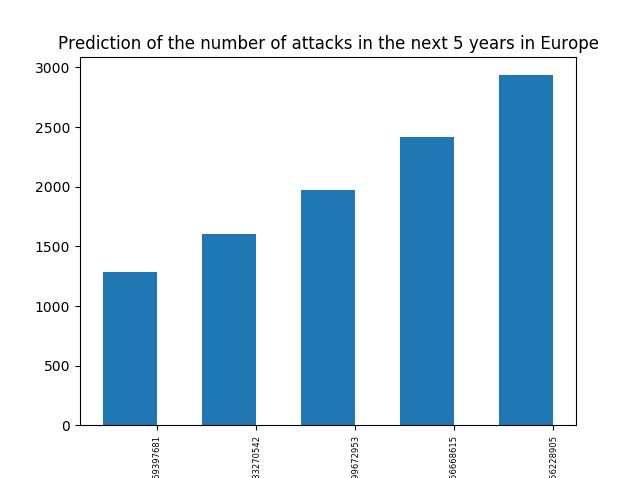
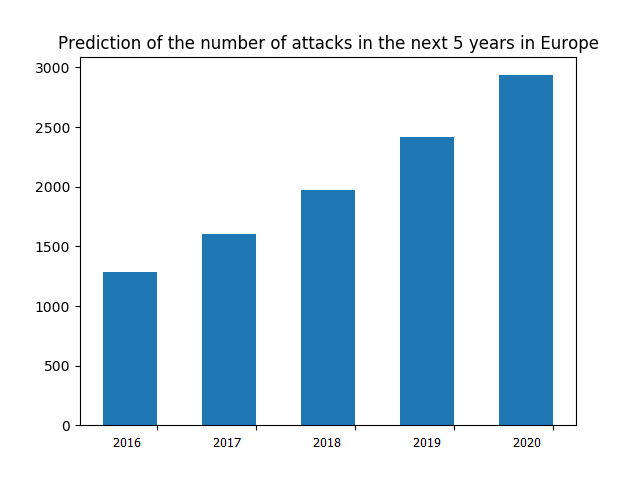
New picture results and updated Readme.md

diff --git a/README.md b/README.md
@@ -19,6 +19,7 @@ Okay, but are all these attacks lethal? It wouldn't be that dangerous if the att
 So, it is almost half-half, but still non-lethal attacks' number is bigger.
 
 Let's create a world map where each country is coloured according to the number of attacks, so we have a better visual representation in comparing different countries/regions. 
+Light green areas are safest - with least attacks, yellow areas are around the average, and the red ones are most attacked. For the grey areas, like Greenland or Mongolia, we could say that they are outliers because there are no registered attacks ever. Iraq is an outlier too, so is the only one with dark red (alarming) colour because of the enormous number of attacks.
 
 ![World map of attacks](map_attacks.jpg)
 
@@ -37,4 +38,14 @@ Next, we decided to find the city that is the most dangerous. We started by find
  	Chances of being attacked in Santiago: 0.0192901234568
  	Chances of being killed in an attack in Santiago: 3.1941994905e-08
 
-Conclusion is that one is most likely to be attacked in Lima, but most likely to be killed in Belfast if they are attacked.
+Probability of around 0.025 means that 1 person in 40 could be attacked. Conclusion is that one is most likely to be attacked in Lima, but most likely to be killed in Belfast if they are attacked.
+
+Considering what concerns us the most, our continent - Europe, we have found that in Western Europe this number has decreased.
+![Attacks in Western Europe](attacks_WE.png)
+![Attacks in Eastern Europe](attacks_EE.png)
+
+There was a decrease in attacks from 1994, until 2004. From 2004 the number of attacks per year is steadily growing. However, the number of attacks in 2014 is smaller than the number of attacks in 1999, 2000, and 2001 and smaller than most of the years before these. The number of attacks in 2015 is nearly equal to the number of attacks in 1997, and smaller than nearly all years before. We can conclude that there was a decrease in attacks in the past 20 years, and it is now growing again. Unlike Western Europe, the number of attacks in Eastern Europe has grown dramatically in the past 2 years.
+
+Next, using the linear regression an an approach for modelling, we gain the predictions of the number of attacks in Europe in the few following years.
+
+![Predictions in Europe](prediction.png)
